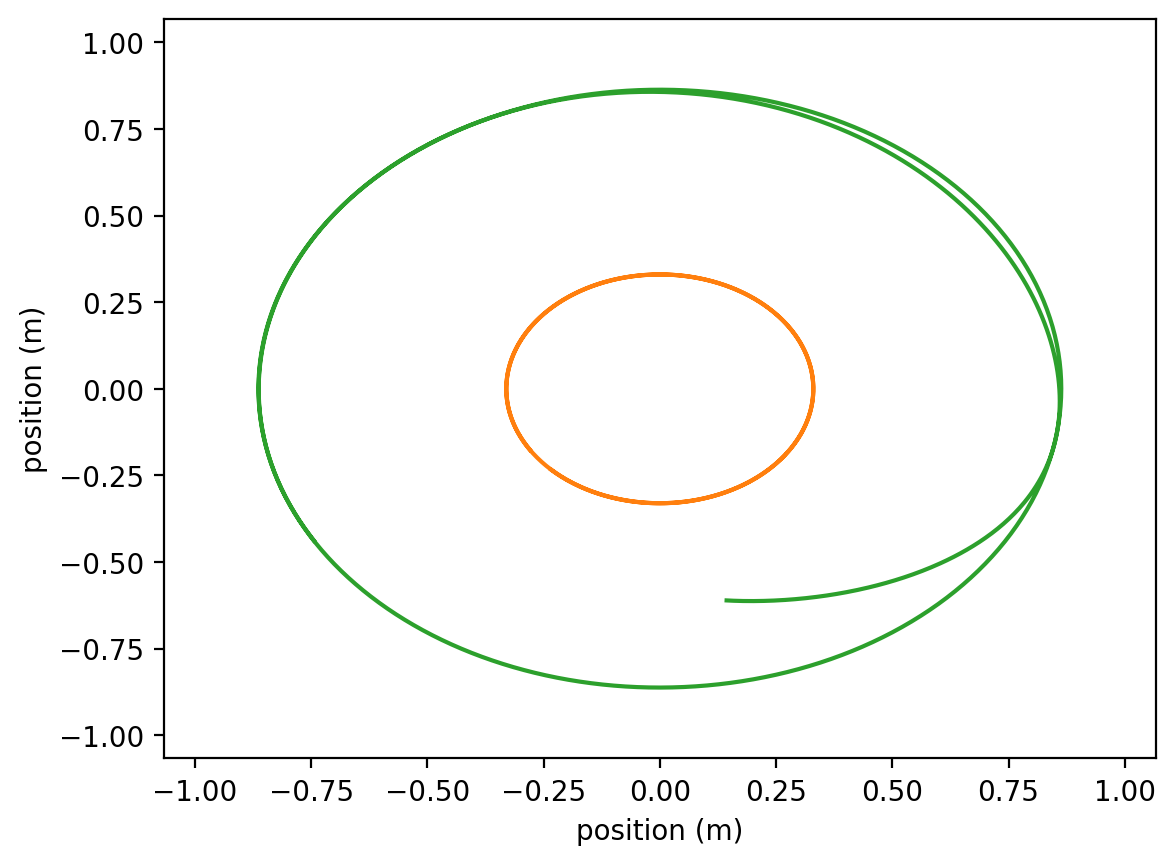
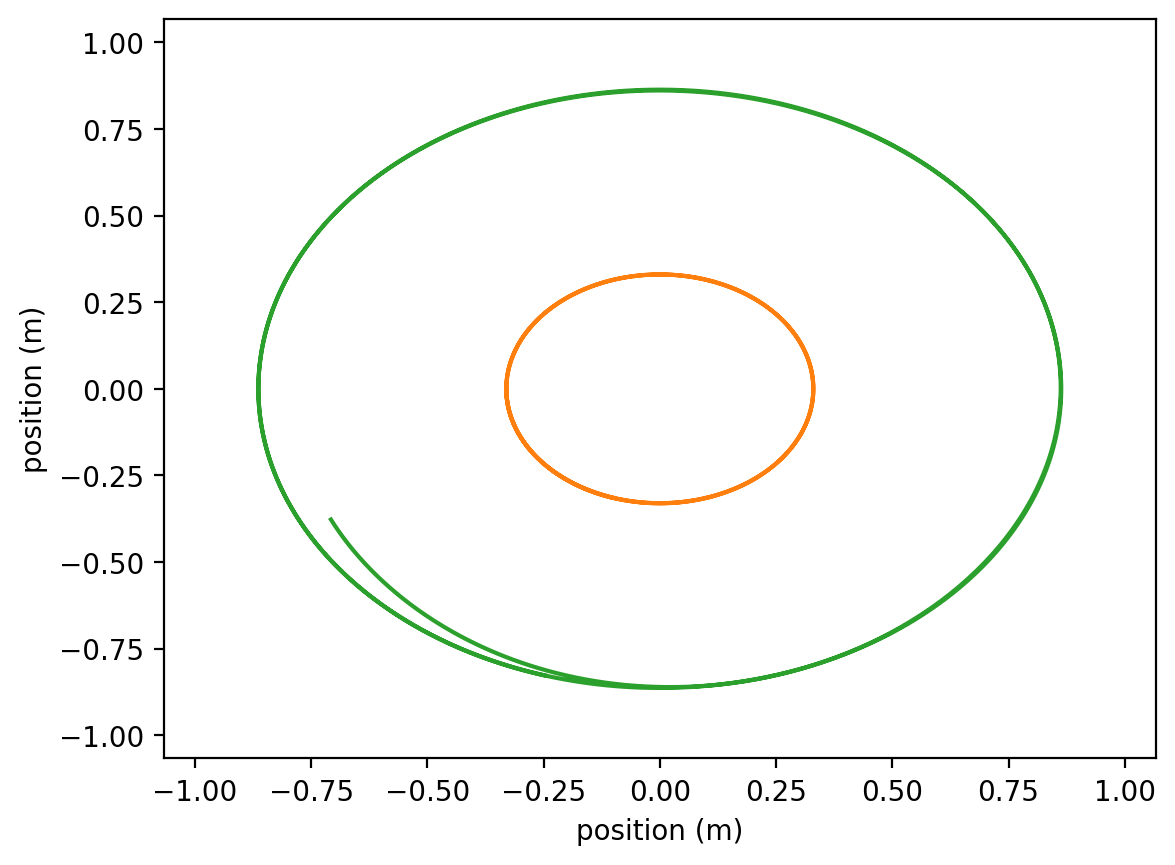
Big Updates

diff --git a/Arm_Control/tpp_class_ball.py b/Arm_Control/tpp_class_ball.py
@@ -58,7 +58,7 @@ class Ball():
     def calc_force(self,vel,dt):
         return vel/dt*self.m
     
-    def simple_ball(self,vx,vy,x0,y0,dt,theta,obstacle):
+    def simple_ball(self,vx,vy,x0,y0,dt,obstacle):
         """
         vel0: Type int
             initial velocity in the horizontal plane
@@ -405,7 +405,7 @@ class Muscle_Mech():
         for i in range(0,len(t_s)-1):
             t = [t_s[i],t_s[i+1]]
             dt = abs(t_s[i+1] - t_s[i])
-            vx,vy,x,y,ballcatch = Ball.simple_ball(vx,vy,x,y,dt,theta,obstacle) #run ball dynamics
+            vx,vy,x,y,ballcatch = Ball.simple_ball(vx,vy,x,y,dt,obstacle) #run ball dynamics
             Xp = Arm.ffsolve(t,vx,vy,x,y,f1,f2,ballcatch) #use pendulum differential equation to judge movement
             xA,yA = Armobj.get_xy()
             obstacle = (xA[0,2],yA[0,2]) #produce obstacle from the peripheral end of pendulum
@@ -415,28 +415,63 @@ class Muscle_Mech():
         point1,point2 = Arm.get_xy_coords()
         tempP2 = point2[:,1:]
         tempP1 = point1[:,1:]
-        store1 = distance.cdist(tempB,tempP1,'euclidean')
-        store2 = distance.cdist(tempB,tempP2,'euclidean')
-        val1 = np.argwhere(store1 == np.min(store1))[0]
-        val2 = np.argwhere(store2 == np.min(store2))[0]
+        # store1 = distance.cdist(tempB,tempP1,'euclidean')
+        # store2 = distance.cdist(tempB,tempP2,'euclidean')
+        # val1 = np.argwhere(store1 == np.min(store1))[0]
+        # val2 = np.argwhere(store2 == np.min(store2))[0]
         # time = Arm.t[val[0]]
-        xB1,yB1 = tempB[val1[0]]
-        xB2,yB2 = tempB[val2[0]]
-        xA1,yA1 = tempP1[val1[0]]
-        xA2,yA2 = tempP2[val2[0]]
+        # xB1,yB1 = tempB[val1[0]]
+        # xB2,yB2 = tempB[val2[0]]
+        # xA1,yA1 = tempP1[val1[0]]
+        # xA2,yA2 = tempP2[val2[0]]
+        # thA1 = Arm.get_theta(xA1,yA1)
+        # thA2 = Arm.get_theta(xA2,yA2)
+        # thB1 = Arm.get_theta(xB1,yB1)
+        # thB2 = Arm.get_theta(xB2,yB2)
+        
+        # adj = 2
+        # diff = thB1-thA1
+        # if diff > 0:
+        #     f1adj = f1adj - adj
+        # else:
+        #     f1adj = f1adj + adj
+        # dist1 = diff*np.sqrt((xB1-xA1)**2+(yB1-yA1)**2)
+        
+        # diff = thB2-thA2
+        # if diff > 0:
+        #     f2adj = f2adj - adj
+        # else:
+        #     f2adj = f2adj + adj
+        # dist2 = diff*np.sqrt((xB2-xA2)**2+(yB2-yA2)**2)
+        
+        # f1adj = dist1+f1adj
+        # f2adj = dist2+f2adj
+        
+        l1,l2 = Arm.coeff[0]
+        armrad = l1+l2
+        theta = np.arange(0,2*np.pi,2*np.pi/len(tempB))
+        armRadii = [(armrad*np.cos(thetai),armrad*np.sin(thetai)) for thetai in theta]
+        store = distance.cdist(tempB,armRadii,'euclidean')
+        val = np.argwhere(store == np.min(store))[0]
+        desth = theta[val[0]]
+        xA1,yA1 = tempP1[val[1]]
+        xA2,yA2 = tempP2[val[1]]
         thA1 = Arm.get_theta(xA1,yA1)
         thA2 = Arm.get_theta(xA2,yA2)
-        thB1 = Arm.get_theta(xB1,yB1)
-        thB2 = Arm.get_theta(xB2,yB2)
+        print(val)
         
-        diff = thB1-thA1
-        dist1 = diff*np.sqrt((xB1-xA1)**2+(yB1-yA1)**2)
+        adj = 5
+        diff = desth-thA1
+        if diff > 0:
+            f1adj = f1adj - adj
+        else:
+            f1adj = f1adj + adj
         
-        diff = thB2-thA2
-        dist2 = diff*np.sqrt((xB2-xA2)**2+(yB2-yA2)**2)
-        
-        f1adj = dist1+f1adj
-        f2adj = dist2+f2adj
+        diff = desth-thA2
+        if diff > 0:
+            f2adj = f2adj - adj
+        else:
+            f2adj = f2adj + adj
         return f1adj, f2adj, ballcatch
         
     def plot_torque_spring(self,spring):
@@ -496,8 +531,8 @@ if __name__ == "__main__":
     #Arm
     plt.close('all')
     n = 2
-    pos1 = -np.pi/4
-    pos2 = np.pi/4
+    pos1 = -np.pi/4*2
+    pos2 = -np.pi/4
     vel = 0
     l1 = (13)*0.0254
     l2 = (12+9)*0.0254
@@ -505,10 +540,10 @@ if __name__ == "__main__":
     m2 = 5.715264/3
     damp = 10
     #mech
-    mgain = 100
+    mgain = 200
     forceint1 = mgain
     forceint2 = mgain
-    maxiter = 20
+    maxiter = 40
     ballcatch = False
     #ball
     e = 1 #coefficient of restitution
@@ -550,7 +585,7 @@ if __name__ == "__main__":
     # for i in range(0,len(t_s)-1):
     #     t = [t_s[i],t_s[i+1]]
     #     dt = abs(t_s[i+1] - t_s[i])        
-    #     vx,vy,x,y,ballcatch = Ballobj.simple_ball(vx,vy,x,y,dt,theta,obstacle)
+    #     vx,vy,x,y,ballcatch = Ballobj.simple_ball(vx,vy,x,y,dt,obstacle)
     #     Xp = Armobj.fbsolve(t,x,y,ballcatch)
     #     xA,yA = Armobj.get_xy()
     #     obstacle = (xA[0,2],yA[0,2])
